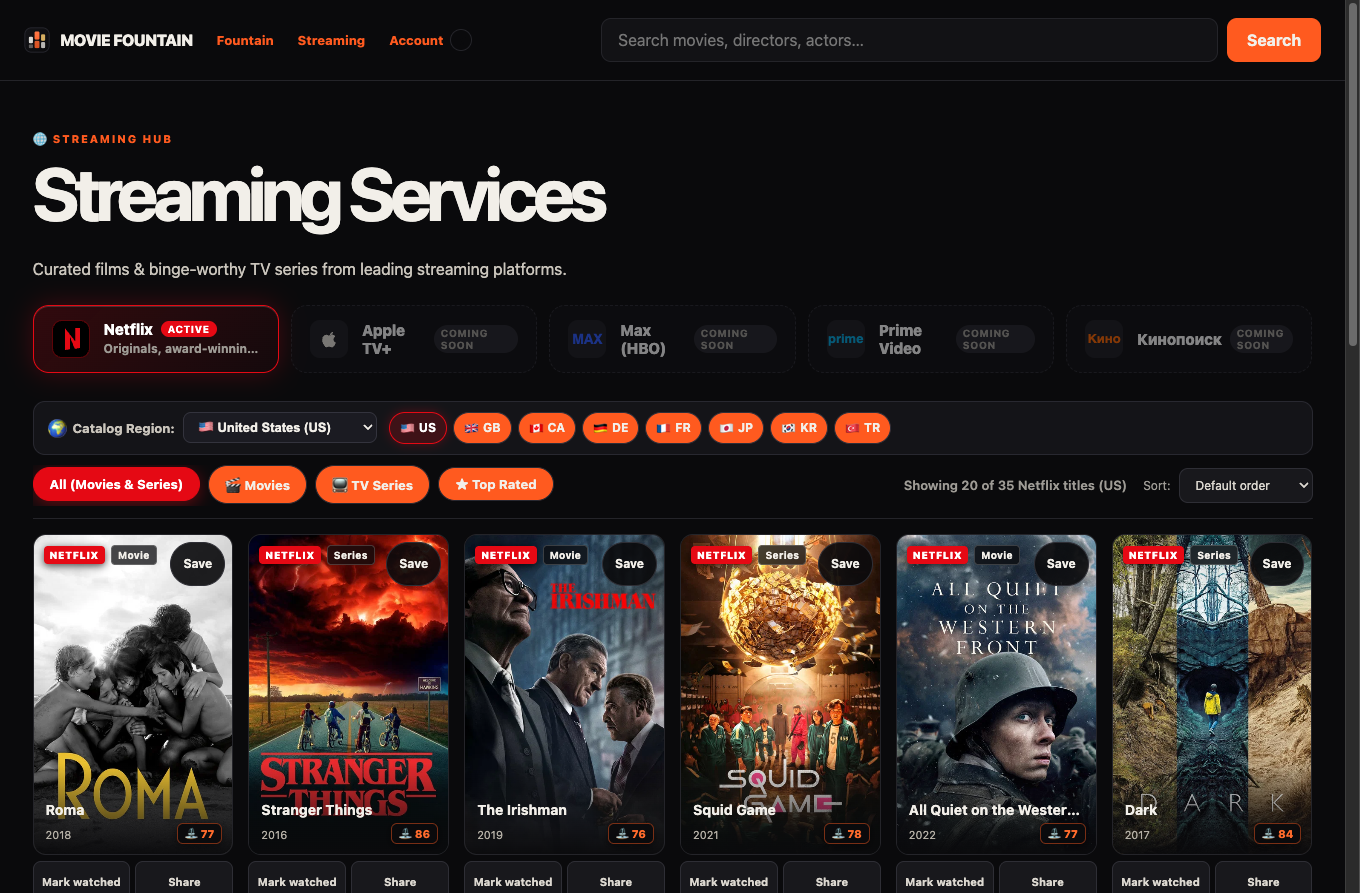
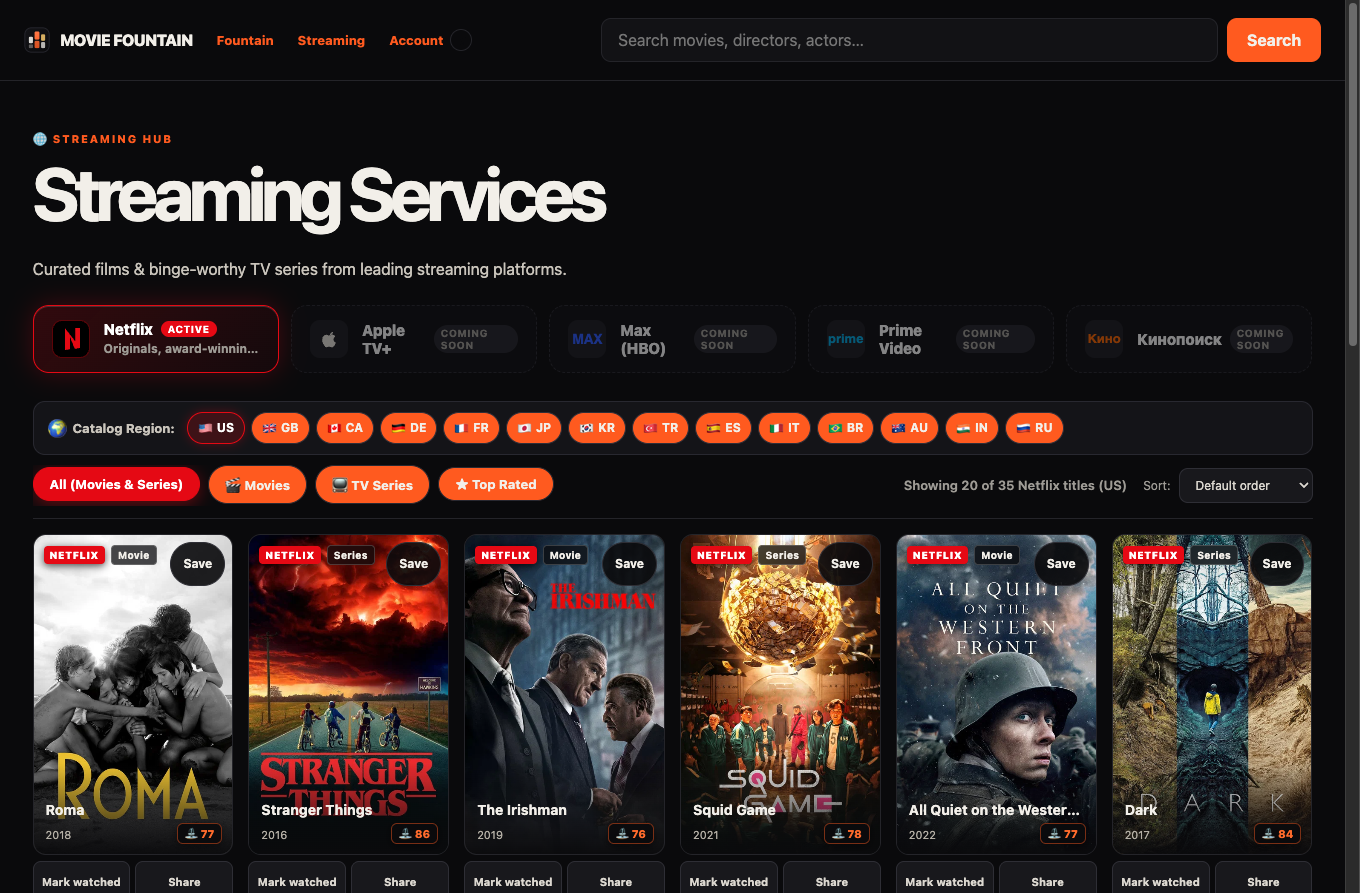
refactor(streaming): unify country selection into clean one-click pill bar

Changed region(s): [[0.1235, 0.4535, 0.8029, 0.514]]

diff --git a/app.js b/app.js
@@ -1193,14 +1193,6 @@ function renderStreamingView() {
 
   const sorted = sortMovieList(filtered, currentStreamingSort);
 
-  const quickCodes = ["US", "GB", "CA", "DE", "FR", "JP", "KR", "TR"];
-  if (!quickCodes.includes(currentStreamingCountry)) {
-    quickCodes.push(currentStreamingCountry);
-  }
-  const quickCountries = quickCodes
-    .map((code) => STREAMING_COUNTRIES.find((c) => c.code === code))
-    .filter(Boolean);
-
   app.innerHTML = `
     <div class="page-heading streaming-heading">
       <p class="eyebrow">🌐 ${t("streaming_tag")}</p>
@@ -1273,28 +1265,19 @@ function renderStreamingView() {
 
       <!-- Country / Regional Catalog Selector -->
       <div class="streaming-country-bar" role="region" aria-label="${t("country_label")}">
-        <div class="streaming-country-select-wrap">
-          <label for="streaming-country-select" class="streaming-country-label">
-            <span class="country-globe-icon" aria-hidden="true">🌍</span>
-            <span>${t("country_label")}:</span>
-          </label>
-          <select id="streaming-country-select" class="streaming-country-select" data-streaming-country aria-label="${t("country_label")}">
-            ${STREAMING_COUNTRIES.map((c) => {
-              const translatedName = t("country_" + c.code.toLowerCase()) || c.name;
-              return `<option value="${c.code}" ${c.code === currentStreamingCountry ? "selected" : ""}>
-                ${c.flag} ${translatedName} (${c.code})
-              </option>`;
-            }).join("")}
-          </select>
-        </div>
+        <span class="streaming-country-label">
+          <span class="country-globe-icon" aria-hidden="true">🌍</span>
+          <span>${t("country_label")}:</span>
+        </span>
 
         <div class="streaming-country-pills" role="tablist" aria-label="${t("country_label")}">
-          ${quickCountries.map((c) => `
-            <button type="button" class="streaming-country-pill ${c.code === currentStreamingCountry ? "is-active" : ""}" data-set-country="${c.code}" aria-selected="${c.code === currentStreamingCountry}">
+          ${STREAMING_COUNTRIES.map((c) => {
+            const translatedName = t("country_" + c.code.toLowerCase()) || c.name;
+            return `<button type="button" class="streaming-country-pill ${c.code === currentStreamingCountry ? "is-active" : ""}" data-set-country="${c.code}" aria-selected="${c.code === currentStreamingCountry}" title="${esc(translatedName)}">
               <span>${c.flag}</span>
               <span>${c.code}</span>
-            </button>
-          `).join("")}
+            </button>`;
+          }).join("")}
         </div>
       </div>
 

diff --git a/site.css b/site.css
@@ -511,12 +511,6 @@ html[data-theme="liquid"] .watch-justwatch-link:hover{color:#38bdf8}
   margin-top: 14px;
 }
 
-.streaming-country-select-wrap {
-  display: flex;
-  align-items: center;
-  gap: 8px;
-}
-
 .streaming-country-label {
   display: inline-flex;
   align-items: center;
@@ -529,24 +523,6 @@ html[data-theme="liquid"] .watch-justwatch-link:hover{color:#38bdf8}
 
 .country-globe-icon {
   font-size: 15px;
-}
-
-.streaming-country-select {
-  background: #1b1b22;
-  border: 1px solid #33333d;
-  color: #f2efe9;
-  border-radius: 8px;
-  padding: 6px 10px;
-  font-size: 13px;
-  font-weight: 600;
-  cursor: pointer;
-  outline: none;
-  transition: border-color .15s ease;
-}
-
-.streaming-country-select:hover,
-.streaming-country-select:focus {
-  border-color: #e50914;
 }
 
 .streaming-country-pills {
@@ -755,8 +731,5 @@ html[data-theme="liquid"] .streaming-end-note {
     flex-direction: column;
     align-items: stretch;
     gap: 10px;
-  }
-  .streaming-country-select-wrap {
-    justify-content: space-between;
   }
 }
